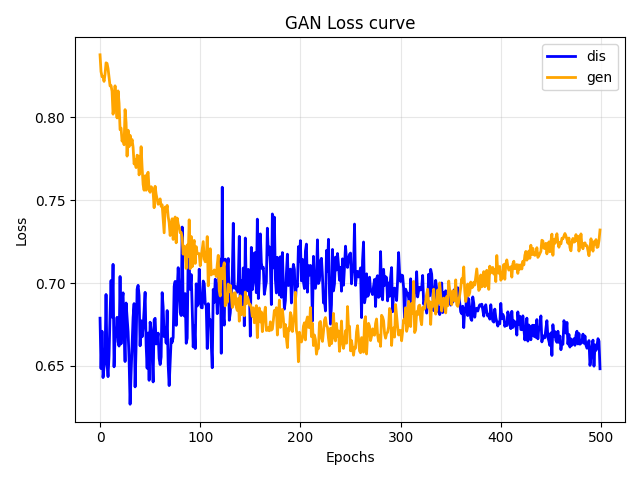
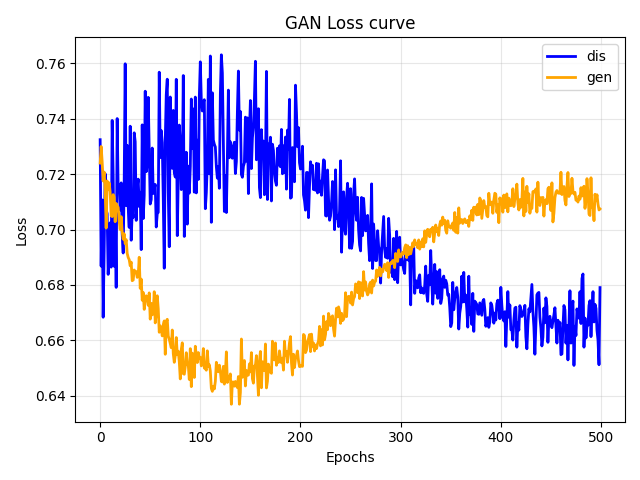
Update

diff --git a/train.py b/train.py
@@ -39,10 +39,10 @@ def train(
 
     # Optimizers
     generator_optimizer = torch.optim.Adam(
-        generator.parameters(), lr=learning_rate
+        generator.parameters(), lr=0.001
     )
     discriminator_optimizer = torch.optim.Adam(
-        discriminator.parameters(), lr=learning_rate
+        discriminator.parameters(), lr=0.001
     )
 
     # loss
